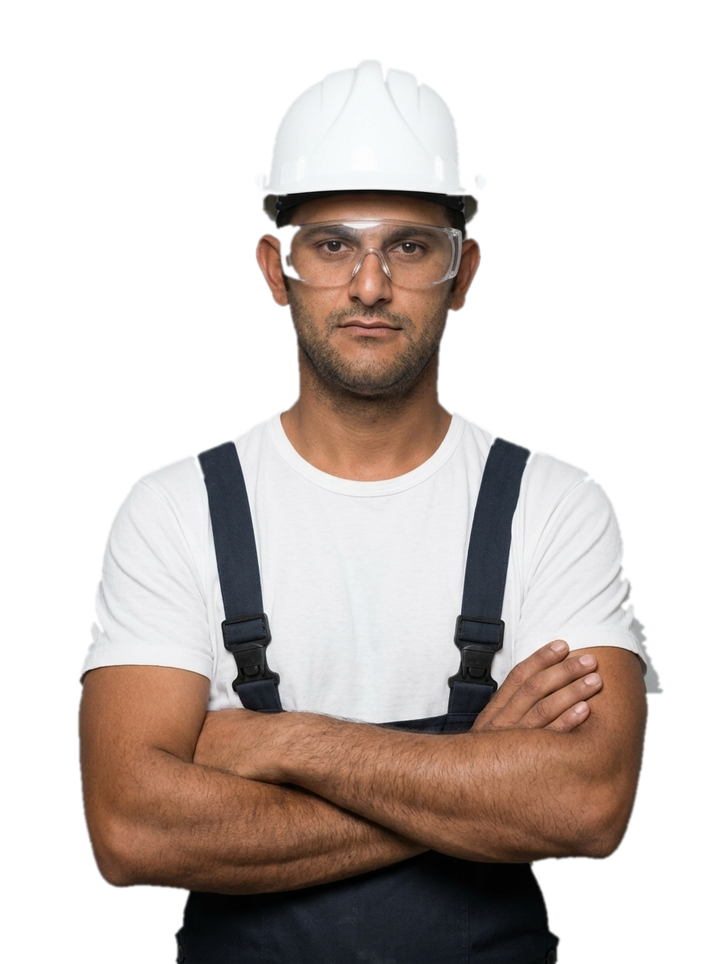
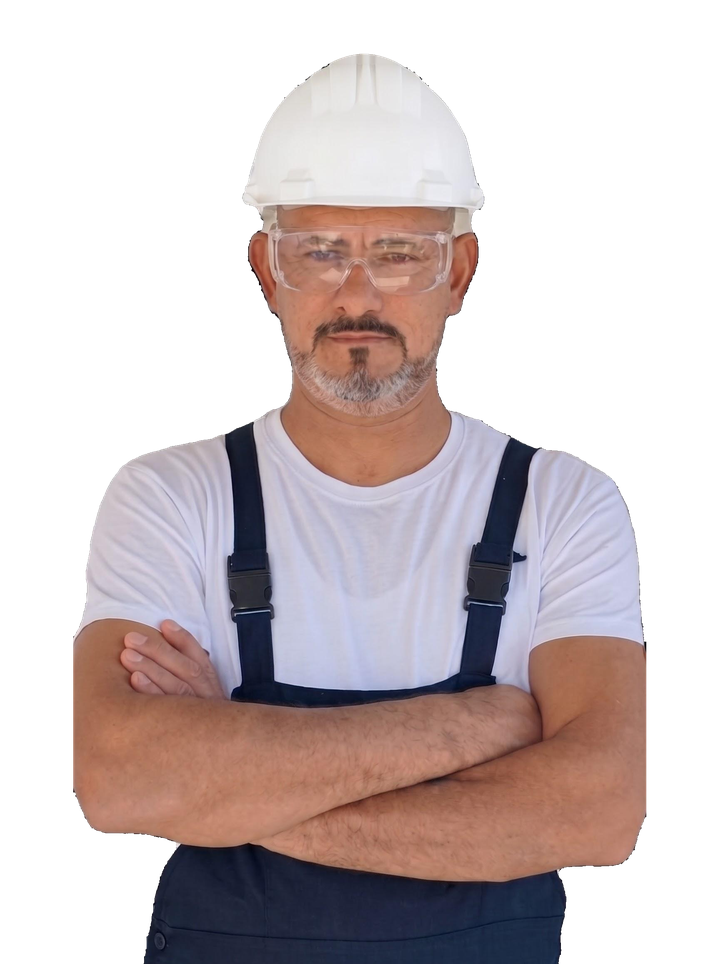
Replace generated stand-in hero image with real photo of Mohamed

diff --git a/CLAUDE.md b/CLAUDE.md
@@ -8,7 +8,7 @@ AtticaPro: a marketing site for an Athens contractor doing insulation/waterproof
 
 ### The business
 
-AtticaPro is run by Mohamed Tawesh, the main worker, who works with a network of other professionals, including trusted electricians and plumbers for the electrical and plumbing side of a job. When writing site copy, present Mohamed as the lead and the others as trusted collaborators. Don't put Mohamed in the forefront of the branding, though: the brand is AtticaPro, so his name doesn't belong in the logo, business cards or as the brand's main trust message. The one exception is the home hero, which shows him as a large cutout portrait (`public/images/hero-mohamed.png`); the owner asked for that after interviews showed visitors took the old, pale look for a yoga site. The file is currently a generated stand-in, to be replaced with a real photo of Mohamed (prompt and source photos in `fb-photos/hero-refs/`). Mohamed has 18 years of experience (confirmed by the site owner; it's shown in the hero and on the insulation page). Don't invent other names, credentials, warranties or project counts. Made-up numbers like those were deliberately removed. The same goes for testimonials: the made-up ones were removed, and the plan is to bring in real reviews from Google Maps later, so don't add any in the meantime.
+AtticaPro is run by Mohamed Tawesh, the main worker, who works with a network of other professionals, including trusted electricians and plumbers for the electrical and plumbing side of a job. When writing site copy, present Mohamed as the lead and the others as trusted collaborators. Don't put Mohamed in the forefront of the branding, though: the brand is AtticaPro, so his name doesn't belong in the logo, business cards or as the brand's main trust message. The one exception is the home hero, which shows him as a large cutout portrait (`public/images/hero-mohamed.png`); the owner asked for that after interviews showed visitors took the old, pale look for a yoga site. Mohamed has 18 years of experience (confirmed by the site owner; it's shown in the hero and on the insulation page). Don't invent other names, credentials, warranties or project counts. Made-up numbers like those were deliberately removed. The same goes for testimonials: the made-up ones were removed, and the plan is to bring in real reviews from Google Maps later, so don't add any in the meantime.
 
 Mohamed can only read Arabic. Anything meant for him to read (questions, checklists, strategy, message templates) must be in Arabic, and any process that has him handle written Greek (replying to reviews, writing quotes) needs ready-made Greek text or someone else to write it.
 
